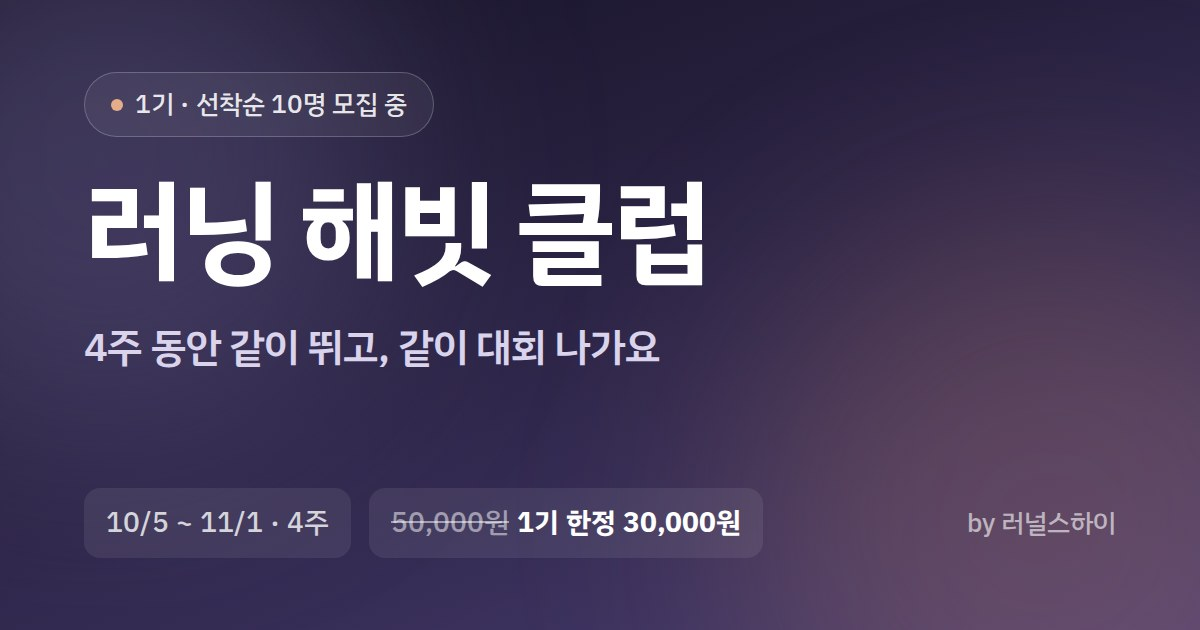
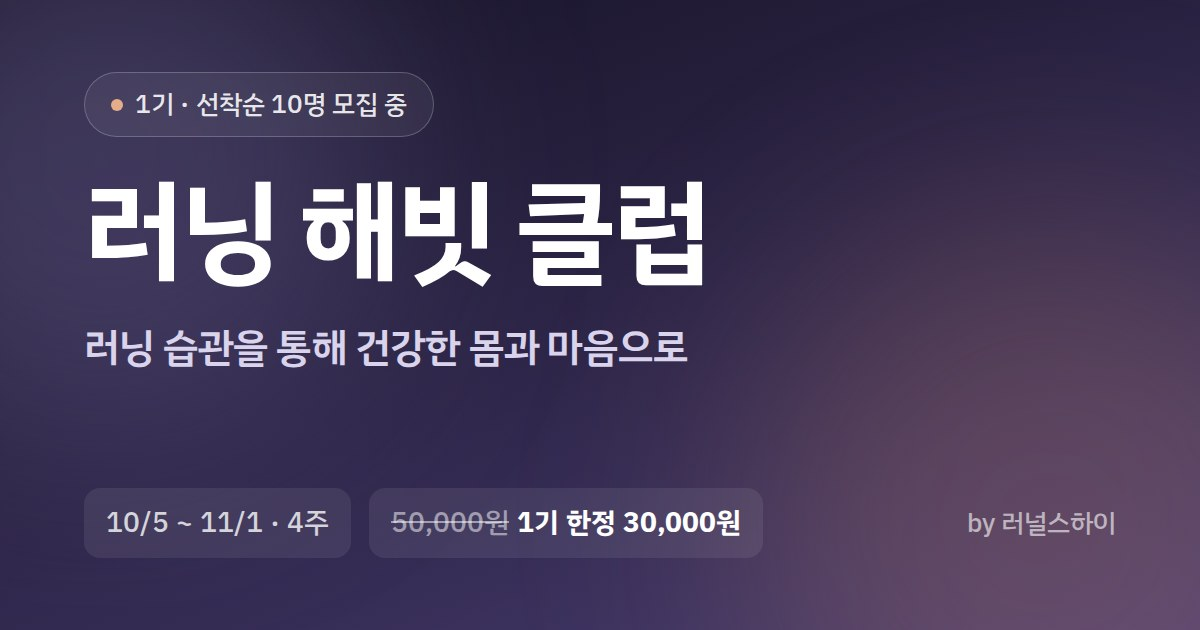
이모지를 보라색 아이콘으로 통일, 남은 문구를 습관 중심으로 정리, 공유 이미지 문구 교체
- IconBadge(lucide-react): 추천 대상·공감·습관 원리·드리는 것 카드 아이콘 14종을 같은 보라색 스타일로
- 공감 설명(대회→운동), '제 이야기' 마무리 문장, '대회를' 조사 수정
- og.jpg 부제: '러닝 습관을 통해 건강한 몸과 마음으로'

Claude-Session: https://claude.ai/code/session_01DsczPQkQw6nskzG6CycaRX

Changed region(s): [[0.0617, 0.5127, 0.5858, 0.6032]]

diff --git a/data/challenge.ts b/data/challenge.ts
@@ -169,19 +169,19 @@ export const fit = {
   description: "이런 분을 적극적으로 도와드릴 수 있어요.",
   items: [
     {
-      emoji: "🌱",
+      icon: "sprout",
       title: "운동이 늘 작심삼일로 끝나는 분",
       body: "혼자서는 사흘을 넘기기 어려웠다면, 주 4회 인증과 함께 달리는 사람들로 4주를 채워요. 꾸준함이 쌓이면 변화는 따라와요.",
       withBeforeAfter: false,
     },
     {
-      emoji: "🔥",
+      icon: "flame",
       title: "러닝·헬스로 다이어트에 도전하고 싶은 분",
       body: "굶지 않고 삼시세끼를 챙겨 먹으면서 10kg을 뺀 방법 그대로, 러닝 훈련표에 식단 가이드와 헬스 운동 가이드까지 드려요.",
       withBeforeAfter: true,
     },
     {
-      emoji: "🏅",
+      icon: "medal",
       title: "마라톤에 도전하고 싶은 분",
       body: "나가보고 싶은데 같이 나갈 사람이 없었다면, 레벨별 훈련표로 4주 동안 꾸준히 준비하고 대회 신청도 함께해요.",
       withBeforeAfter: false,
@@ -257,20 +257,20 @@ export const empathy = {
   eyebrow: "혹시, 이런 적 있나요?",
   title: "의지가 약해서가 아니에요",
   description:
-    "대회에 나가보고 싶다는 마음은 있는데 매번 다음으로 미루게 됩니다. 문제는 의지가 아니라 '혼자'라는 환경이었어요.",
+    "운동해야지 마음은 먹는데 매번 다음으로 미루게 됩니다. 문제는 의지가 아니라 '혼자'라는 환경이었어요.",
   points: [
     {
-      emoji: "🗓",
+      icon: "calendar-x",
       title: "이번에도 3일 만에 멈췄어요",
       body: "주말에 큰맘 먹고 시작했는데 월요일 야근 한 번에 무너졌던 기억. 다시 시작하려니 괜히 머쓱해집니다.",
     },
     {
-      emoji: "😰",
+      icon: "frown",
       title: "대회 나가고 싶은데 혼자는 무서워요",
       body: "신청 버튼 앞에서 몇 번을 망설였습니다. 코스는 어떤지, 얼마나 준비해야 하는지 물어볼 사람이 없으니 결국 창을 닫게 돼요.",
     },
     {
-      emoji: "📉",
+      icon: "trending-down",
       title: "뭘 어떻게 해야 할지 모르겠어요",
       body: "무작정 뛰다 무릎이 아프고, 며칠 쉬다 보면 어느새 러닝화는 신발장 안쪽으로 밀려나 있었죠.",
     },
@@ -406,7 +406,7 @@ export const myStory = {
     ],
   },
 
-  closing: "이 4주가 끝나면, 여러분도 저처럼 '그냥 뛰는 사람'이 되어 있을 거예요.",
+  closing: "이번 4주가, 여러분이 '그냥 뛰는 사람'이 되는 첫 습관이 되면 좋겠어요.",
 } as const;
 
 /* ===========================================================================
@@ -420,17 +420,17 @@ export const whyHabit = {
   /** 습관 형성 원리 */
   principles: [
     {
-      emoji: "🤝",
+      icon: "handshake",
       title: "동료 효과",
       body: "함께 하는 사람이 있으면 지속률이 눈에 띄게 올라갑니다. '나 하나쯤이야'가 '나도 해야지'로 바뀌거든요.",
     },
     {
-      emoji: "🎯",
+      icon: "target",
       title: "정해진 목표일",
       body: "대회처럼 날짜가 정해진 목표가 있으면 훈련이 '하면 좋은 일'에서 '해야 하는 일'로 바뀝니다. 그래서 대회 신청을 권해드려요.",
     },
     {
-      emoji: "📋",
+      icon: "clipboard",
       title: "고민할 필요 없는 계획",
       body: "오늘 뭘 얼마나 뛸지 고민하는 순간 실행 확률이 떨어집니다. 주차별 훈련표를 그대로 따라오기만 하면 돼요.",
     },
@@ -538,32 +538,32 @@ export const habitSystem = {
     "포기하고 싶은 순간은 반드시 옵니다. 그때 혼자 버티지 않도록 러닝부터 식단, 헬스까지 여섯 가지를 준비했어요.",
   features: [
     {
-      emoji: "📸",
+      icon: "camera",
       title: "주 4회 사진 인증",
       body: `${challengeInfo.communityText}에 사진 한 장만 올리면 끝. 오래 걸리지 않고, 기록하는 순간 '오늘의 나'가 증거로 남습니다.`,
     },
     {
-      emoji: "📋",
+      icon: "clipboard",
       title: "레벨별 주차 훈련표",
       body: "입문 · 10K · 하프 중 고른 코스에 맞춰 이번 주에 뭘 할지 정해드립니다. 고민 없이 그대로 따라오기만 하면 돼요.",
     },
     {
-      emoji: "🥗",
+      icon: "salad",
       title: "식단 가이드",
       body: "굶지 않고 삼시세끼를 챙겨 먹으면서 간식을 끊어 10kg을 뺀 방법을 정리해 드려요. 무리한 식단 대신 오래 지킬 수 있는 방법이에요.",
     },
     {
-      emoji: "🏋",
+      icon: "dumbbell",
       title: "헬스 운동 가이드",
       body: "러닝과 함께하면 좋은 근력 운동을 알려드려요. 더 잘 달리고, 덜 다치도록 몸을 받쳐주는 기본 동작 위주예요.",
     },
     {
-      emoji: "🏁",
+      icon: "flag",
       title: "목표 대회 같이 신청",
-      body: `원하시면 ${challengeInfo.raceText}을 함께 신청해요. 날짜가 정해진 목표가 생기면 4주가 훨씬 단단해져요.`,
+      body: `원하시면 ${challengeInfo.raceText}를 함께 신청해요. 날짜가 정해진 목표가 생기면 4주가 훨씬 단단해져요.`,
     },
     {
-      emoji: "📊",
+      icon: "chart",
       title: "매주 일요일 결산",
       body: "한 주 동안 얼마나 달렸는지 정리해 드립니다. 잘한 점과 다음 주 계획을 같이 짚으며 습관의 리듬을 유지해요.",
     },

diff --git a/components/IconBadge.tsx b/components/IconBadge.tsx
@@ -1,0 +1,59 @@
+/**
+ * IconBadge — 카드 위에 붙는 보라색 아이콘. 사이트 전체의 아이콘 모양을 한 곳에서 맞춥니다.
+ * data/challenge.ts 에서는 icon: "sprout" 처럼 아래 목록의 이름만 적으면 됩니다.
+ * 새 아이콘이 필요하면 https://lucide.dev/icons 에서 골라 아래 icons 에 한 줄 추가하세요.
+ */
+import {
+  CalendarX,
+  Camera,
+  ChartColumn,
+  ClipboardList,
+  Dumbbell,
+  Flag,
+  Flame,
+  Frown,
+  Handshake,
+  Medal,
+  Salad,
+  Sprout,
+  Target,
+  TrendingDown,
+  type LucideIcon,
+} from "lucide-react";
+
+import { cn } from "@/lib/utils";
+
+const icons = {
+  sprout: Sprout,
+  flame: Flame,
+  medal: Medal,
+  "calendar-x": CalendarX,
+  frown: Frown,
+  "trending-down": TrendingDown,
+  handshake: Handshake,
+  target: Target,
+  clipboard: ClipboardList,
+  camera: Camera,
+  salad: Salad,
+  dumbbell: Dumbbell,
+  flag: Flag,
+  chart: ChartColumn,
+} satisfies Record<string, LucideIcon>;
+
+export type IconName = keyof typeof icons;
+
+export function IconBadge({ name, className }: { name: IconName; className?: string }) {
+  const Icon = icons[name];
+
+  return (
+    <span
+      aria-hidden="true"
+      className={cn(
+        "flex size-11 shrink-0 items-center justify-center rounded-xl bg-brand-50 text-brand-600 ring-1 ring-brand-100 dark:bg-brand-900/30 dark:text-brand-300 dark:ring-brand-800",
+        className,
+      )}
+    >
+      <Icon className="size-[22px]" strokeWidth={1.8} />
+    </span>
+  );
+}

diff --git a/components/FitSection.tsx b/components/FitSection.tsx
@@ -2,6 +2,7 @@
  * FitSection — "러닝 해빗 클럽은 이런 분들께 잘 맞아요!" 추천 대상 섹션. 첫 화면 바로 다음에 나옵니다.
  * 문구는 data/challenge.ts 의 `fit` 을, 사진은 `myStory.beforeAfter` 를 편집하세요.
  */
+import { IconBadge } from "@/components/IconBadge";
 import { Reveal } from "@/components/Reveal";
 import { SectionHeading } from "@/components/SectionHeading";
 import { fit, myStory } from "@/data/challenge";
@@ -23,12 +24,7 @@ export function FitSection() {
               className="card-soft flex flex-col gap-4 rounded-2xl border border-line bg-surface p-6 sm:p-7"
             >
               <div className="flex items-start gap-3">
-                <span
-                  aria-hidden="true"
-                  className="flex size-11 shrink-0 items-center justify-center rounded-xl bg-brand-50 text-xl ring-1 ring-brand-100 dark:bg-brand-900/30 dark:ring-brand-800"
-                >
-                  {item.emoji}
-                </span>
+                <IconBadge name={item.icon} />
                 <div className="flex flex-col gap-1.5">
                   <h3 className="font-display text-balance text-lg leading-snug text-ink">{item.title}</h3>
                   <p className="text-pretty text-sm leading-relaxed text-ink-muted">{item.body}</p>

diff --git a/components/HabitSystem.tsx b/components/HabitSystem.tsx
@@ -2,6 +2,7 @@
  * HabitSystem — 습관을 지켜주는 장치(혜택/리워드)와 신뢰 통계 카드를 보여줍니다.
  * 문구/수치 수정은 data/challenge.ts 의 `habitSystem` 을 편집하세요.
  */
+import { IconBadge } from "@/components/IconBadge";
 import { Reveal } from "@/components/Reveal";
 import { SectionHeading } from "@/components/SectionHeading";
 import { habitSystem } from "@/data/challenge";
@@ -24,12 +25,7 @@ export function HabitSystem() {
               delay={index * 0.07}
               className="flex gap-5 rounded-2xl bg-surface p-7 card-soft ring-1 ring-line"
             >
-              <span
-                aria-hidden="true"
-                className="flex size-11 shrink-0 items-center justify-center rounded-xl bg-accent-100 text-lg ring-1 ring-line dark:bg-accent-500/10"
-              >
-                {feature.emoji}
-              </span>
+              <IconBadge name={feature.icon} />
               <div className="flex flex-col gap-2">
                 <h3 className="font-display text-base text-ink sm:text-lg">{feature.title}</h3>
                 <p className="text-pretty text-sm leading-relaxed text-ink-muted">{feature.body}</p>

diff --git a/components/WhyHabit.tsx b/components/WhyHabit.tsx
@@ -2,6 +2,7 @@
  * WhyHabit — 습관이 안 만들어지는 이유(원리)와 이 챌린지의 해결 장치를 소개합니다.
  * 문구 수정은 data/challenge.ts 의 `whyHabit` 을 편집하세요.
  */
+import { IconBadge } from "@/components/IconBadge";
 import { Reveal } from "@/components/Reveal";
 import { SectionHeading } from "@/components/SectionHeading";
 import { whyHabit } from "@/data/challenge";
@@ -25,12 +26,7 @@ export function WhyHabit() {
               delay={index * 0.08}
               className="flex flex-col gap-3 rounded-2xl bg-surface p-7 card-soft ring-1 ring-line"
             >
-              <span
-                aria-hidden="true"
-                className="flex size-11 items-center justify-center rounded-xl bg-brand-50 text-lg ring-1 ring-line dark:bg-brand-900/30"
-              >
-                {principle.emoji}
-              </span>
+              <IconBadge name={principle.icon} />
               <h3 className="font-display text-lg text-ink">{principle.title}</h3>
               <p className="text-pretty text-sm leading-relaxed text-ink-muted">{principle.body}</p>
             </Reveal>

diff --git a/components/EmpathySection.tsx b/components/EmpathySection.tsx
@@ -2,6 +2,7 @@
  * EmpathySection — "나만 그런 게 아니었구나" 공감 섹션.
  * 문구 수정은 data/challenge.ts 의 `empathy` 를 편집하세요.
  */
+import { IconBadge } from "@/components/IconBadge";
 import { Reveal } from "@/components/Reveal";
 import { SectionHeading } from "@/components/SectionHeading";
 import { empathy } from "@/data/challenge";
@@ -24,12 +25,7 @@ export function EmpathySection() {
               delay={index * 0.08}
               className="flex flex-col gap-3 rounded-2xl border border-line bg-surface-muted p-7"
             >
-              <span
-                aria-hidden="true"
-                className="flex size-10 items-center justify-center rounded-xl bg-surface text-lg ring-1 ring-line"
-              >
-                {point.emoji}
-              </span>
+              <IconBadge name={point.icon} />
               <h3 className="font-display text-base text-ink sm:text-lg">{point.title}</h3>
               <p className="text-pretty text-sm leading-[1.8] text-ink-muted">{point.body}</p>
             </Reveal>
